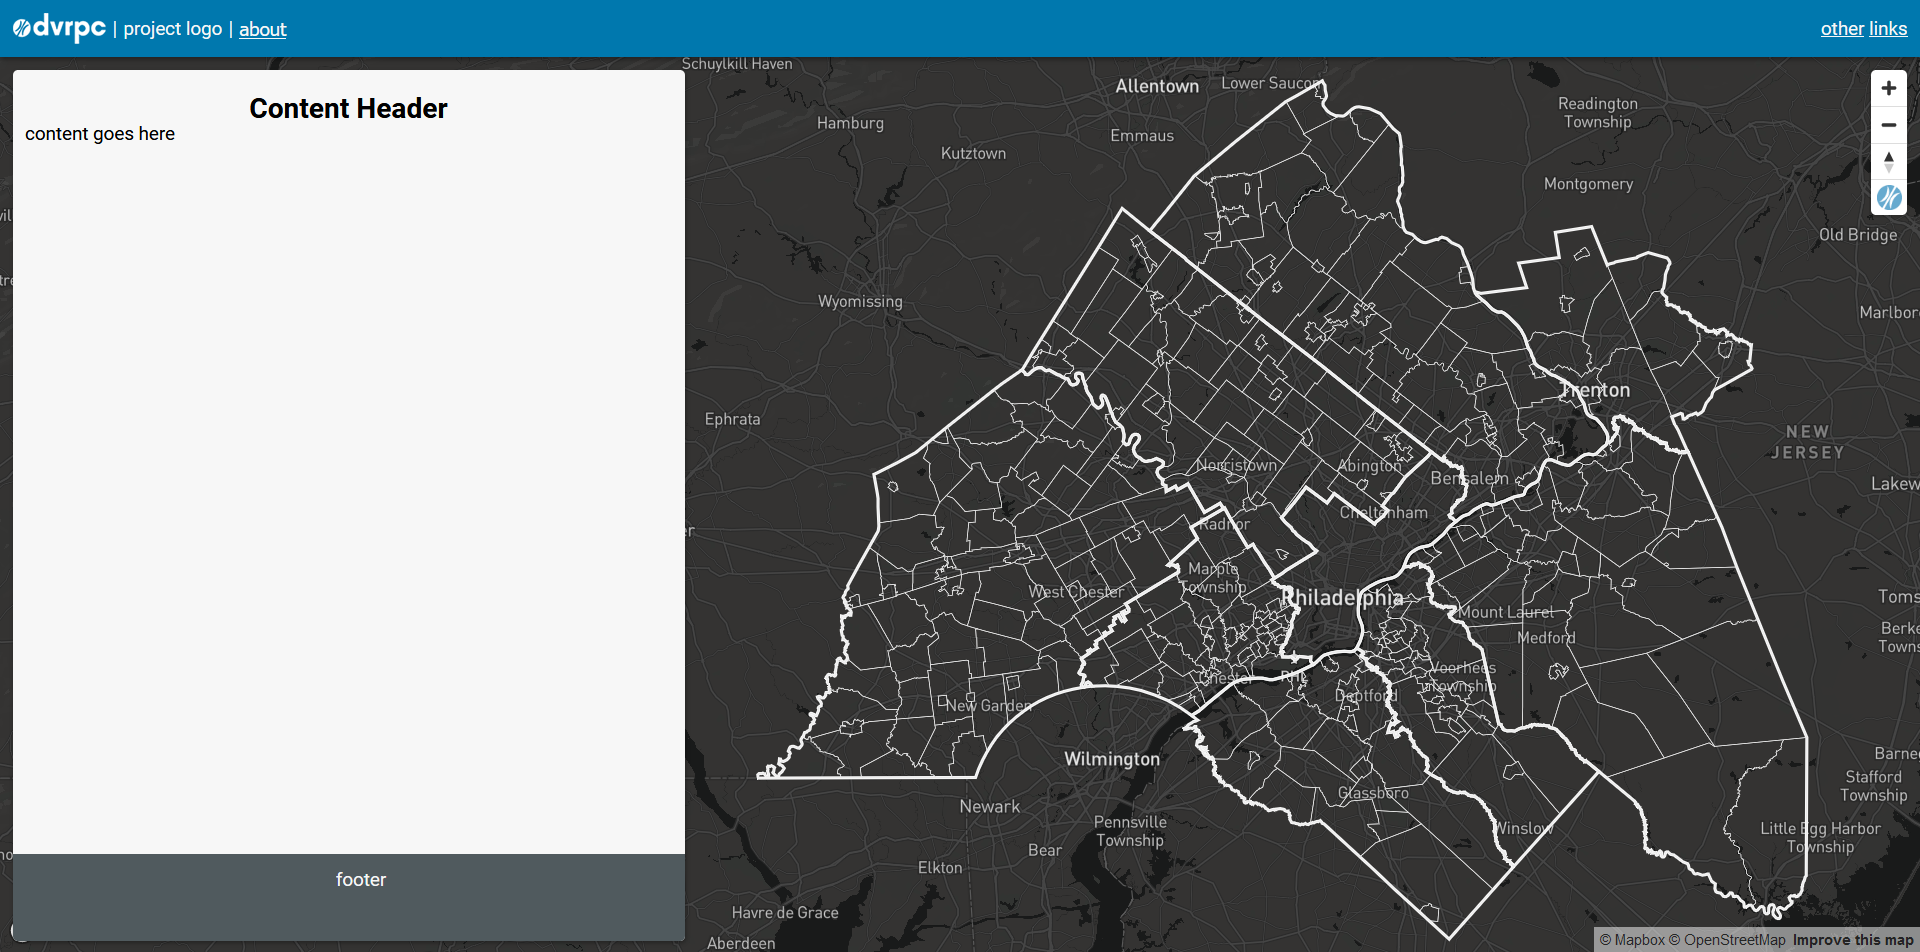
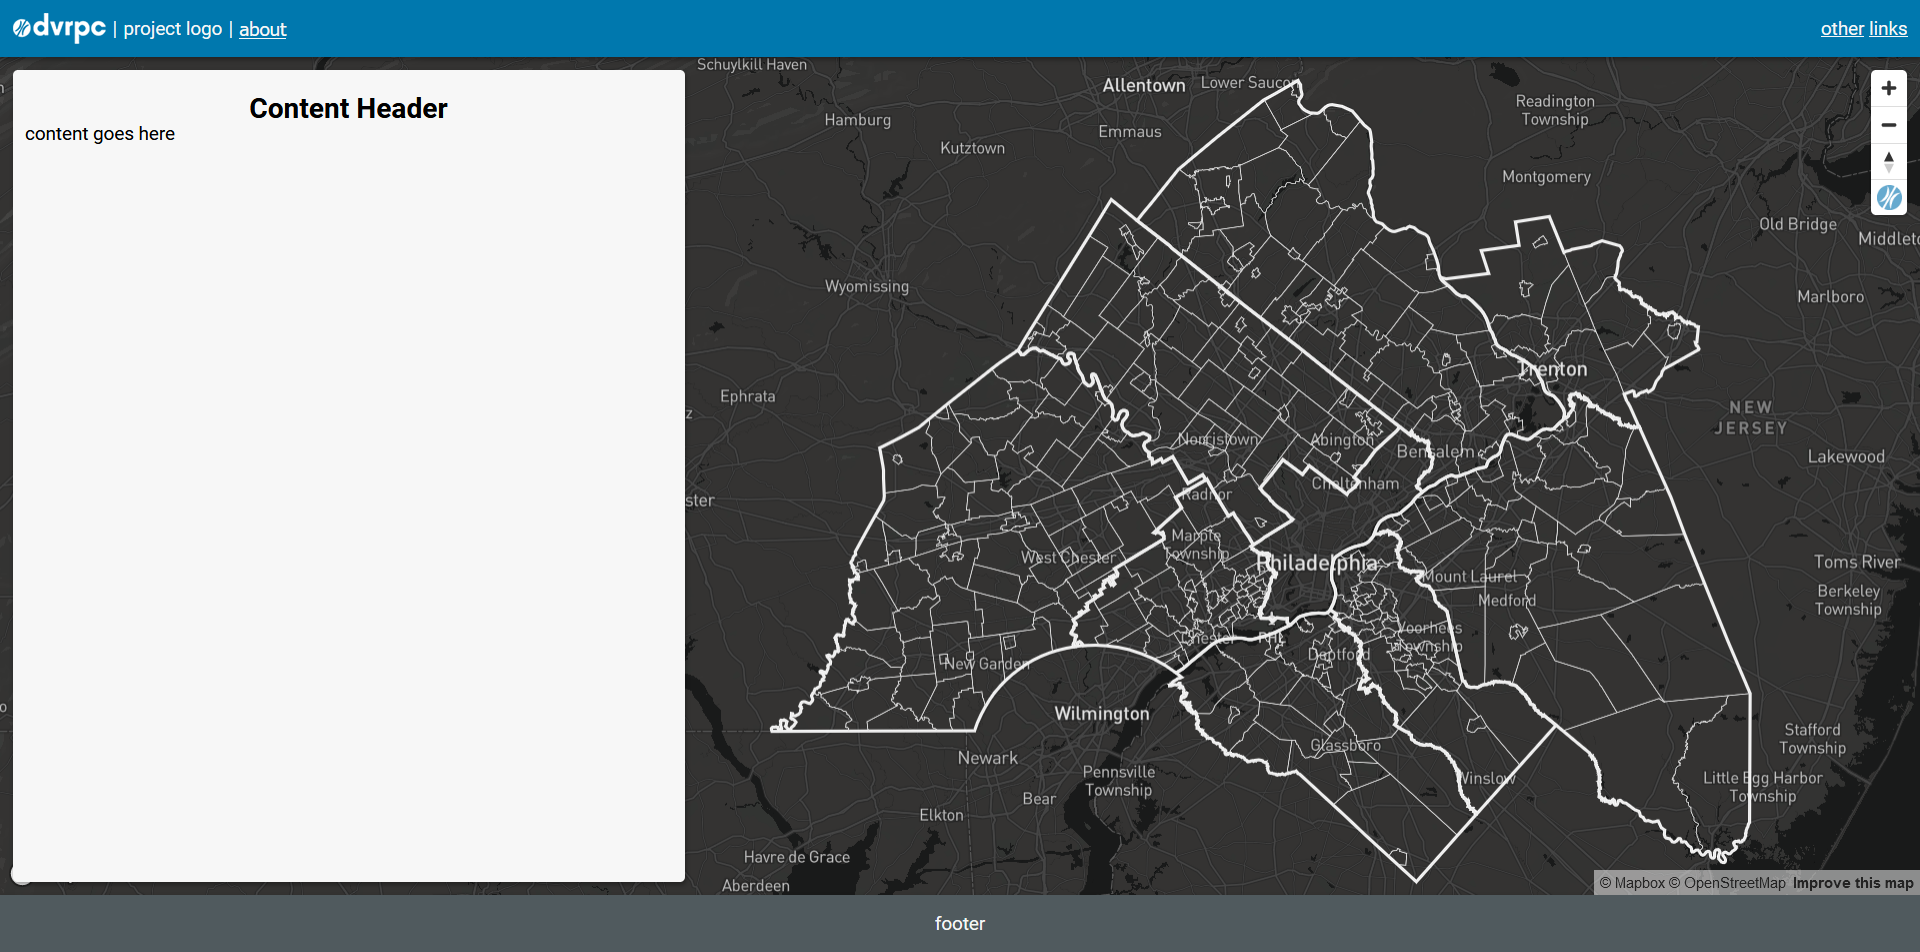
update float wide template readme

diff --git a/maps/sidebar-float-template-wide/readme.md b/maps/sidebar-float-template-wide/readme.md
@@ -1,4 +1,4 @@
-# Floating, responsive webmap template
+# Floating, responsive webmap template with full width footer
 
 
 ## Includes
